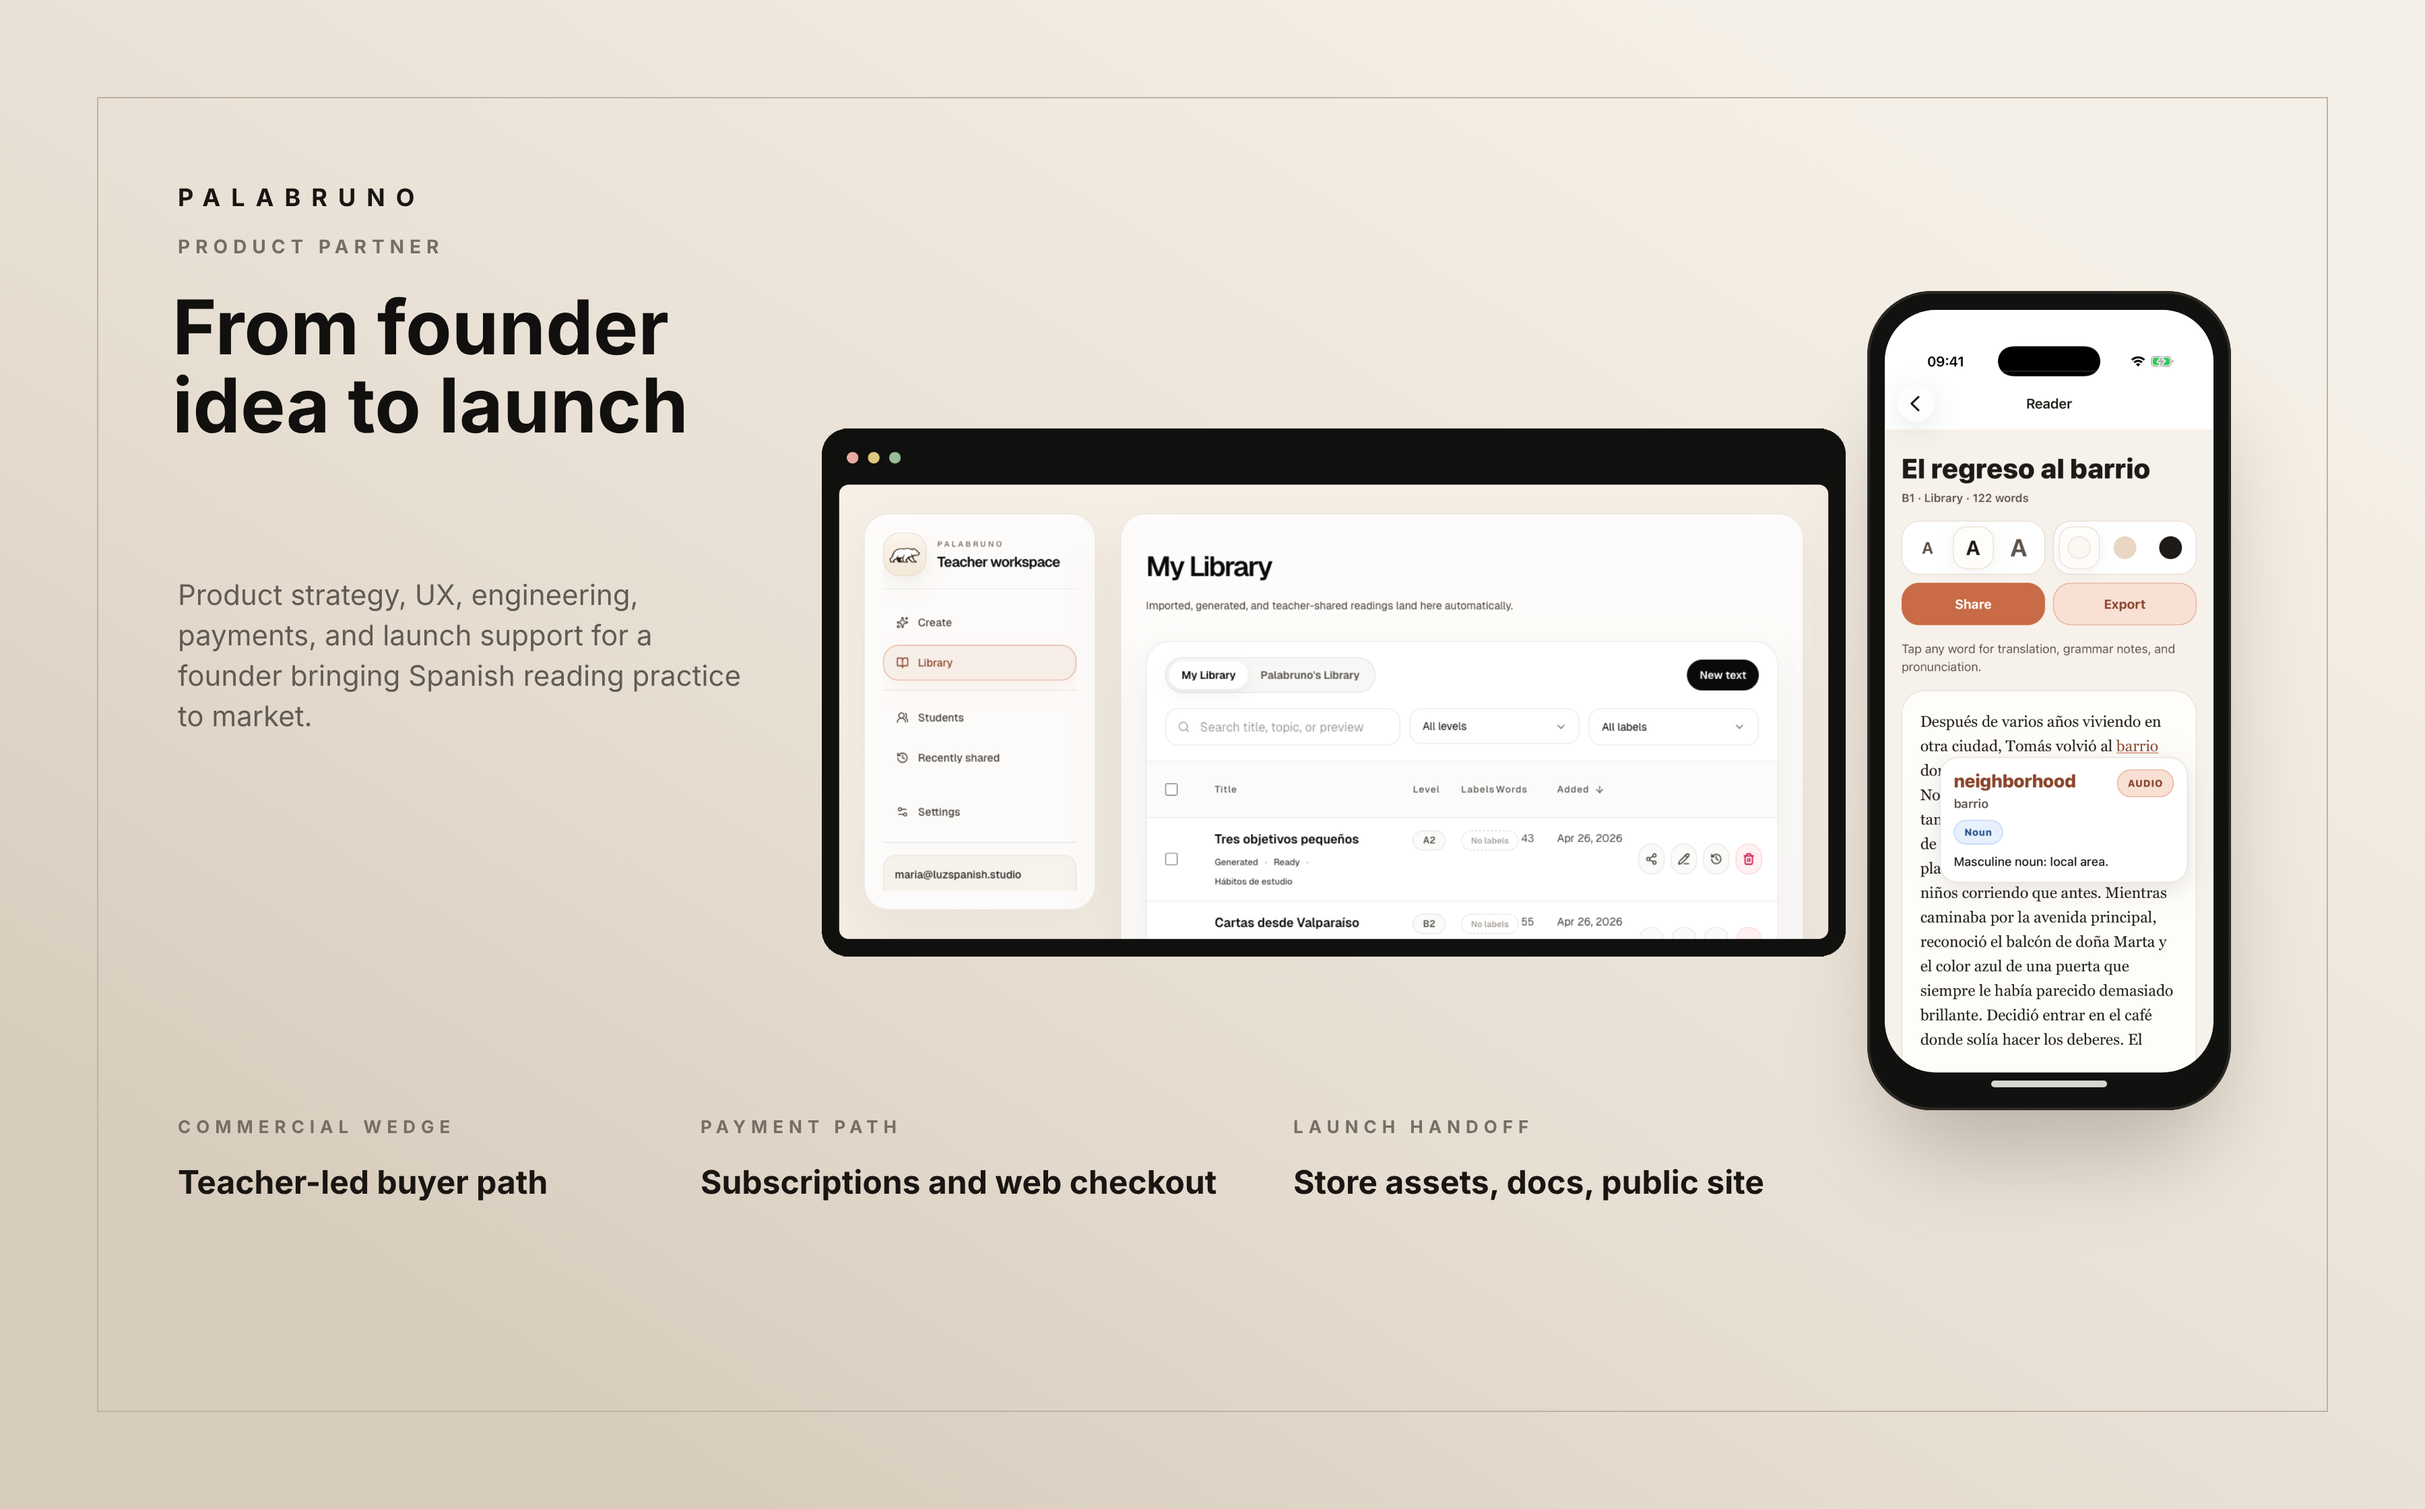
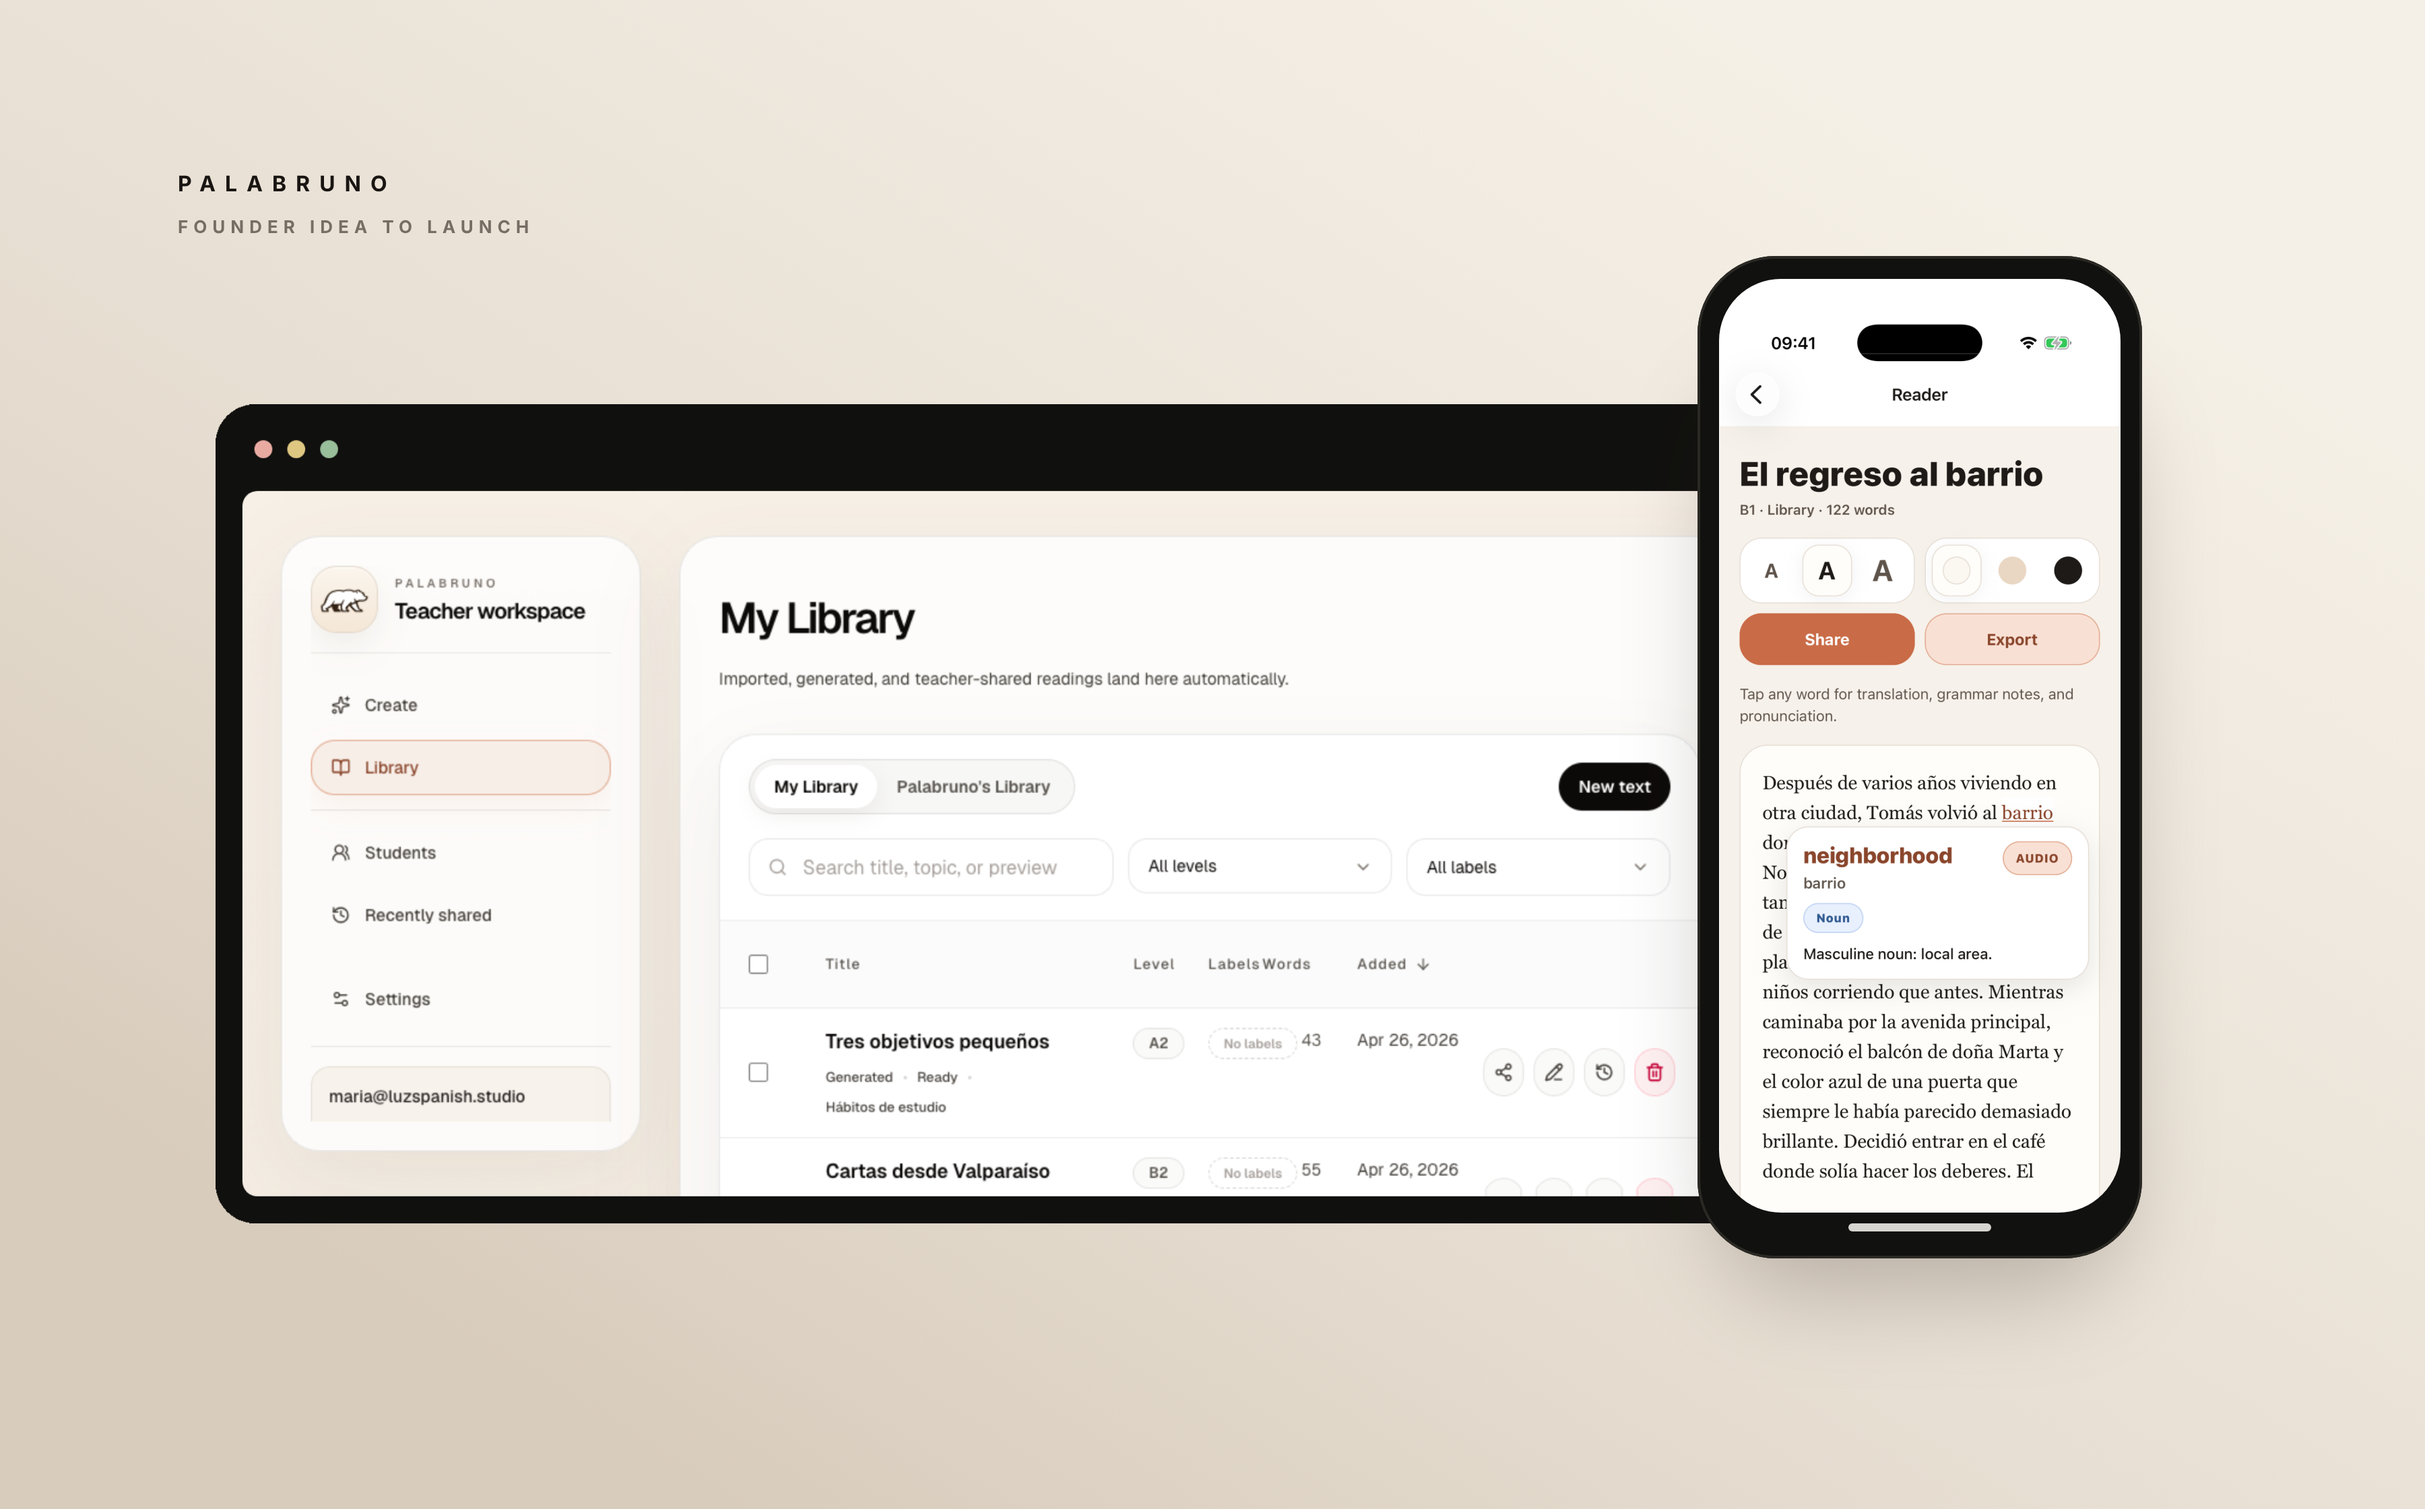
Tighten Palabruno featured visual

Changed region(s): [[0.0622, 0.0938, 0.9333, 0.875]]

diff --git a/src/styles/global.css b/src/styles/global.css
@@ -987,7 +987,9 @@
 	}
 
 	.projects-index__feature-media {
-		aspect-ratio: 1280 / 577;
+		aspect-ratio: 16 / 10;
+		background: transparent;
+		outline: 0;
 	}
 
 	.projects-index__row-media {
@@ -2540,10 +2542,9 @@
 		justify-content: center;
 		overflow: hidden;
 		min-height: clamp(19rem, 34vw, 34rem);
-		background: rgba(235, 232, 225, 0.74);
-		padding: clamp(0.35rem, 1.2vw, 0.95rem);
-		outline: 1px solid var(--site-rule);
-		outline-offset: -1px;
+		background: transparent;
+		padding: 0;
+		outline: 0;
 	}
 
 	.case-study-feature__image {
@@ -2554,8 +2555,7 @@
 	}
 
 	.dark .case-study-feature__media {
-		background: rgba(246, 241, 232, 0.08);
-		outline-color: rgba(246, 241, 232, 0.13);
+		background: transparent;
 	}
 
 	.case-study-feature__device {
@@ -2759,10 +2759,14 @@
 		color: var(--site-ink);
 	}
 
-	:is(.dark) .projects-index__feature-media,
 	:is(.dark) .projects-index__row-media {
 		background: rgba(246, 241, 232, 0.08);
 		outline-color: rgba(246, 241, 232, 0.13);
+	}
+
+	:is(.dark) .projects-index__feature-media {
+		background: transparent;
+		outline: 0;
 	}
 
 	:is(.dark) .blog-post-author-inline,
